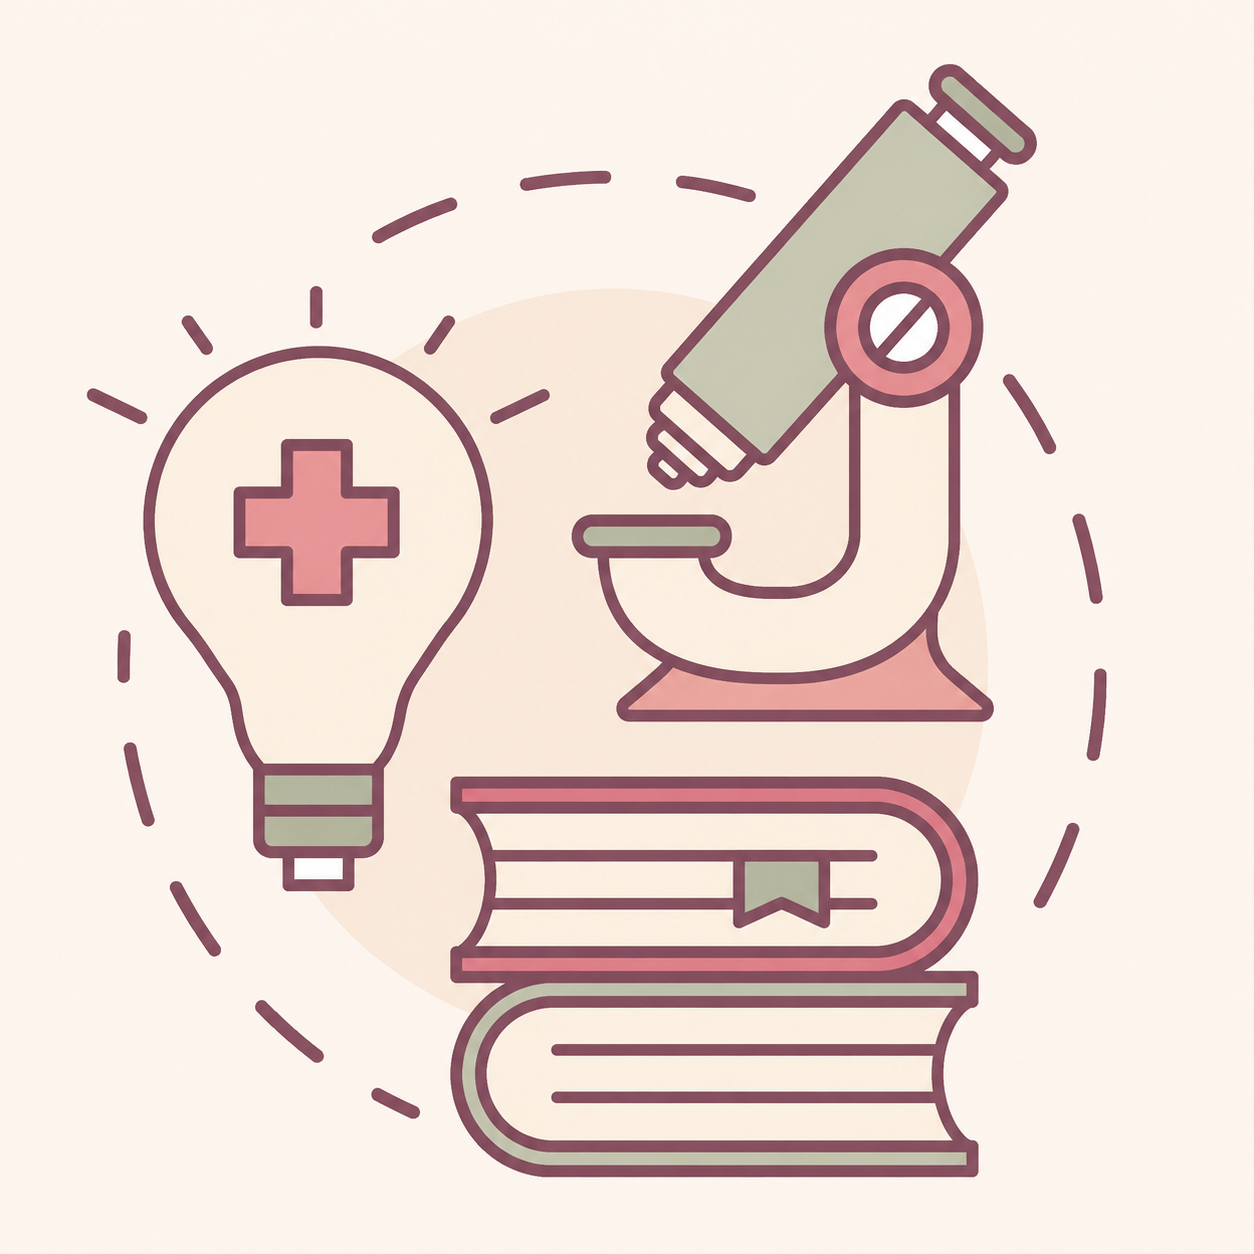
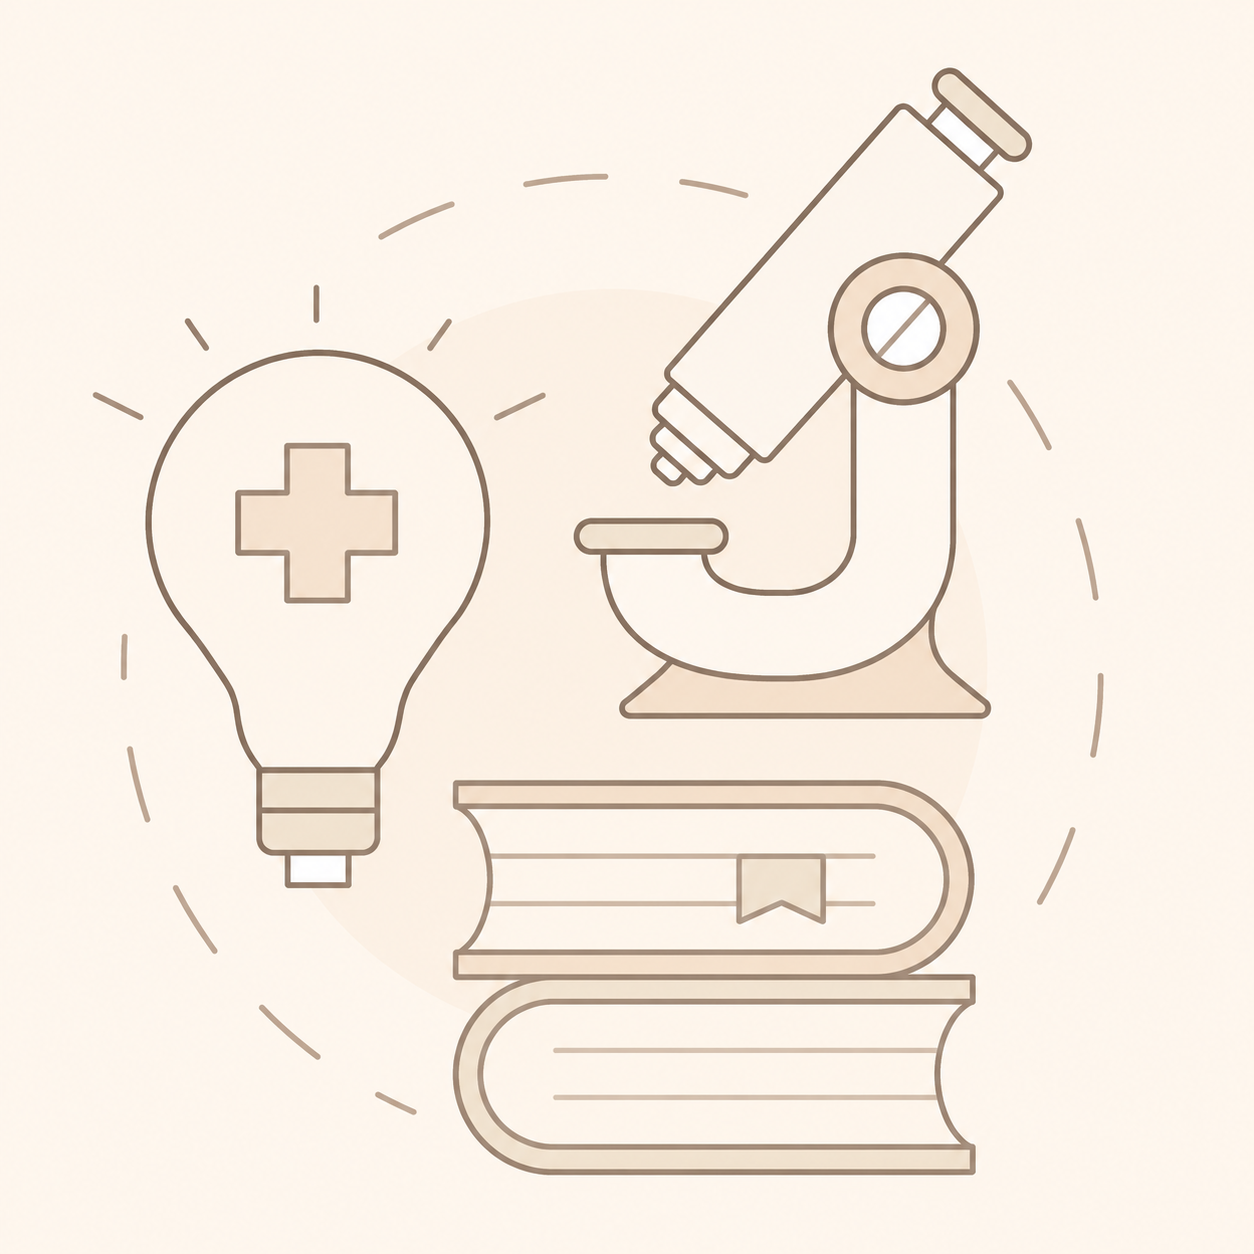
Change image investigacion

diff --git a/src/pages/Contacto.tsx b/src/pages/Contacto.tsx
@@ -39,7 +39,7 @@ export default function Contacto() {
 function ContactInfo() {
   const { ref, visible } = useReveal();
   const items = [
-    { icon: Mail, label: 'Correo', value: '[[email redacted]]', href: 'mailto:[[email redacted]]' },
+    { icon: Mail, label: 'Correo', value: '[email redacted]', href: 'mailto:[email redacted]' },
     { icon: Phone, label: 'Teléfono', value: '[[phone redacted]]', href: 'tel:[phone redacted]' },
     { icon: MessageCircle, label: 'Whatsapp', value: 'Háblanos directamente ->', href: '#' },
   ];